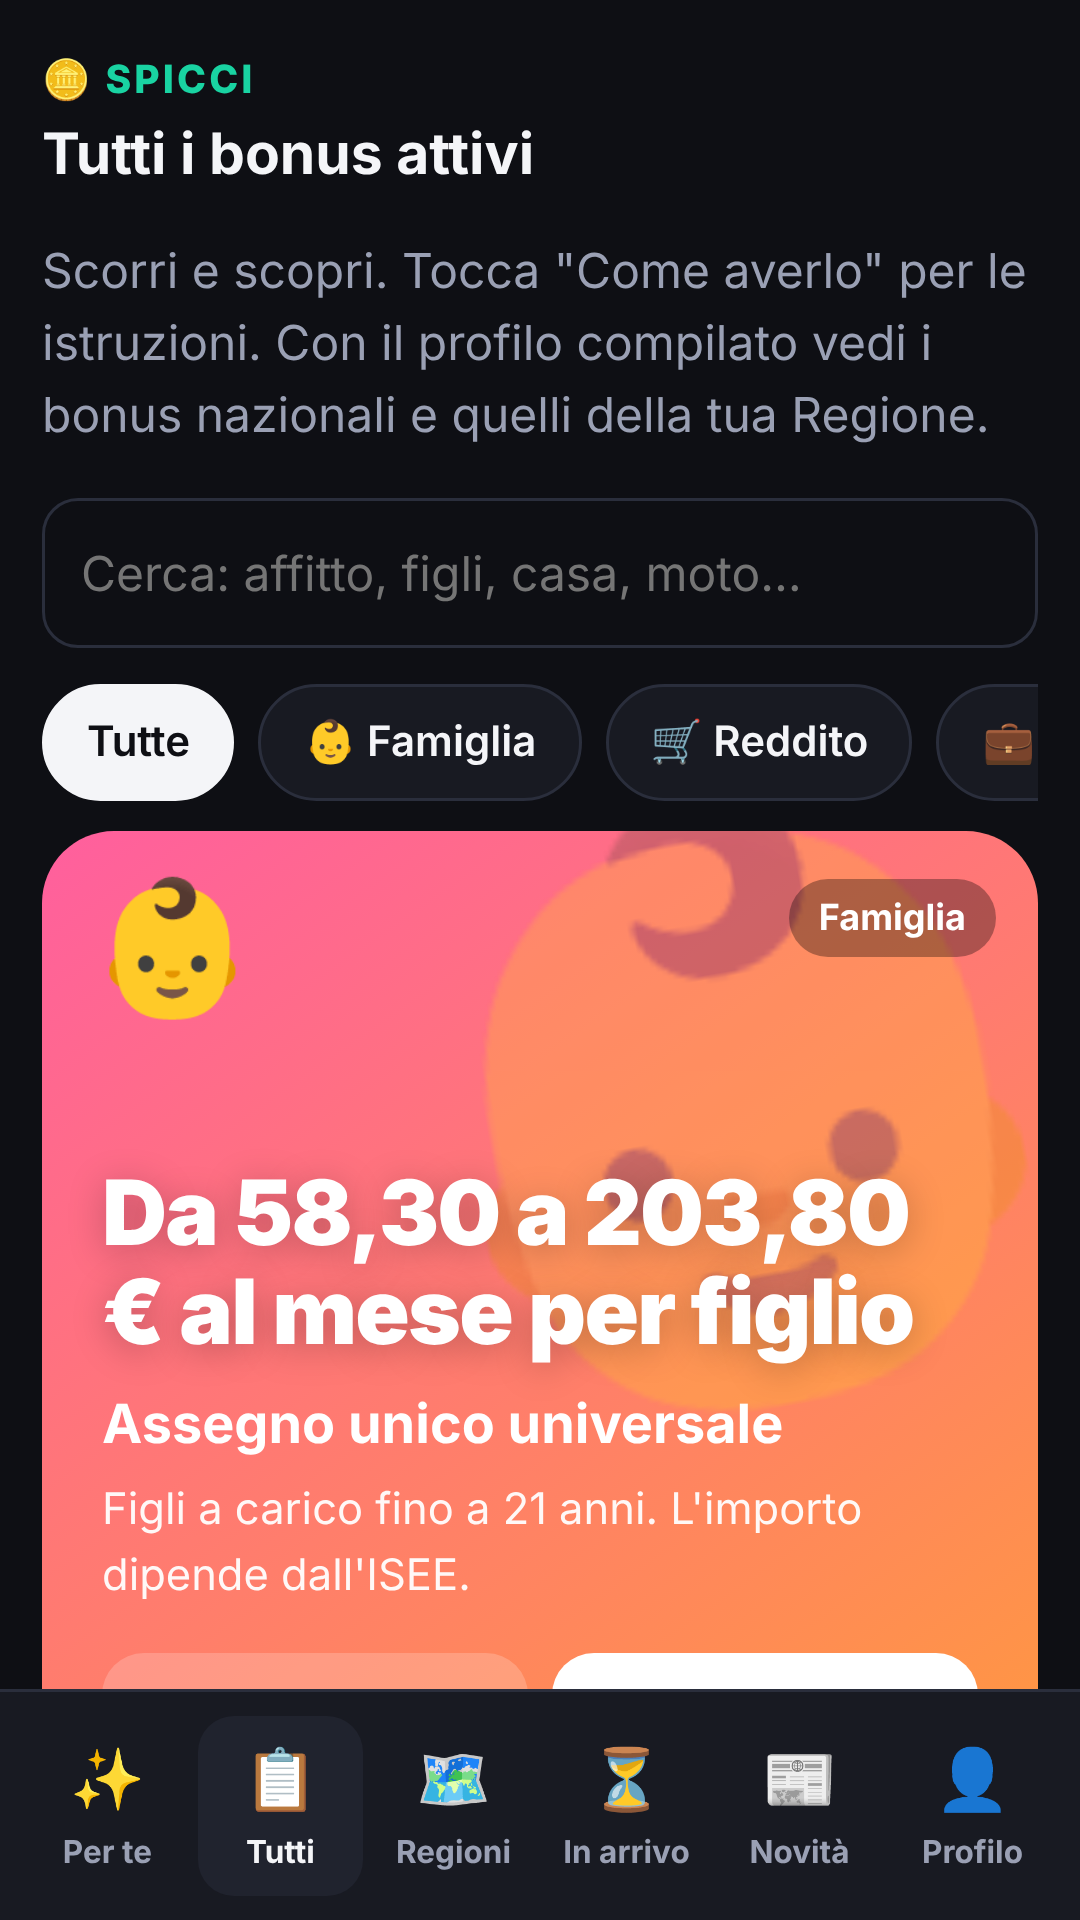
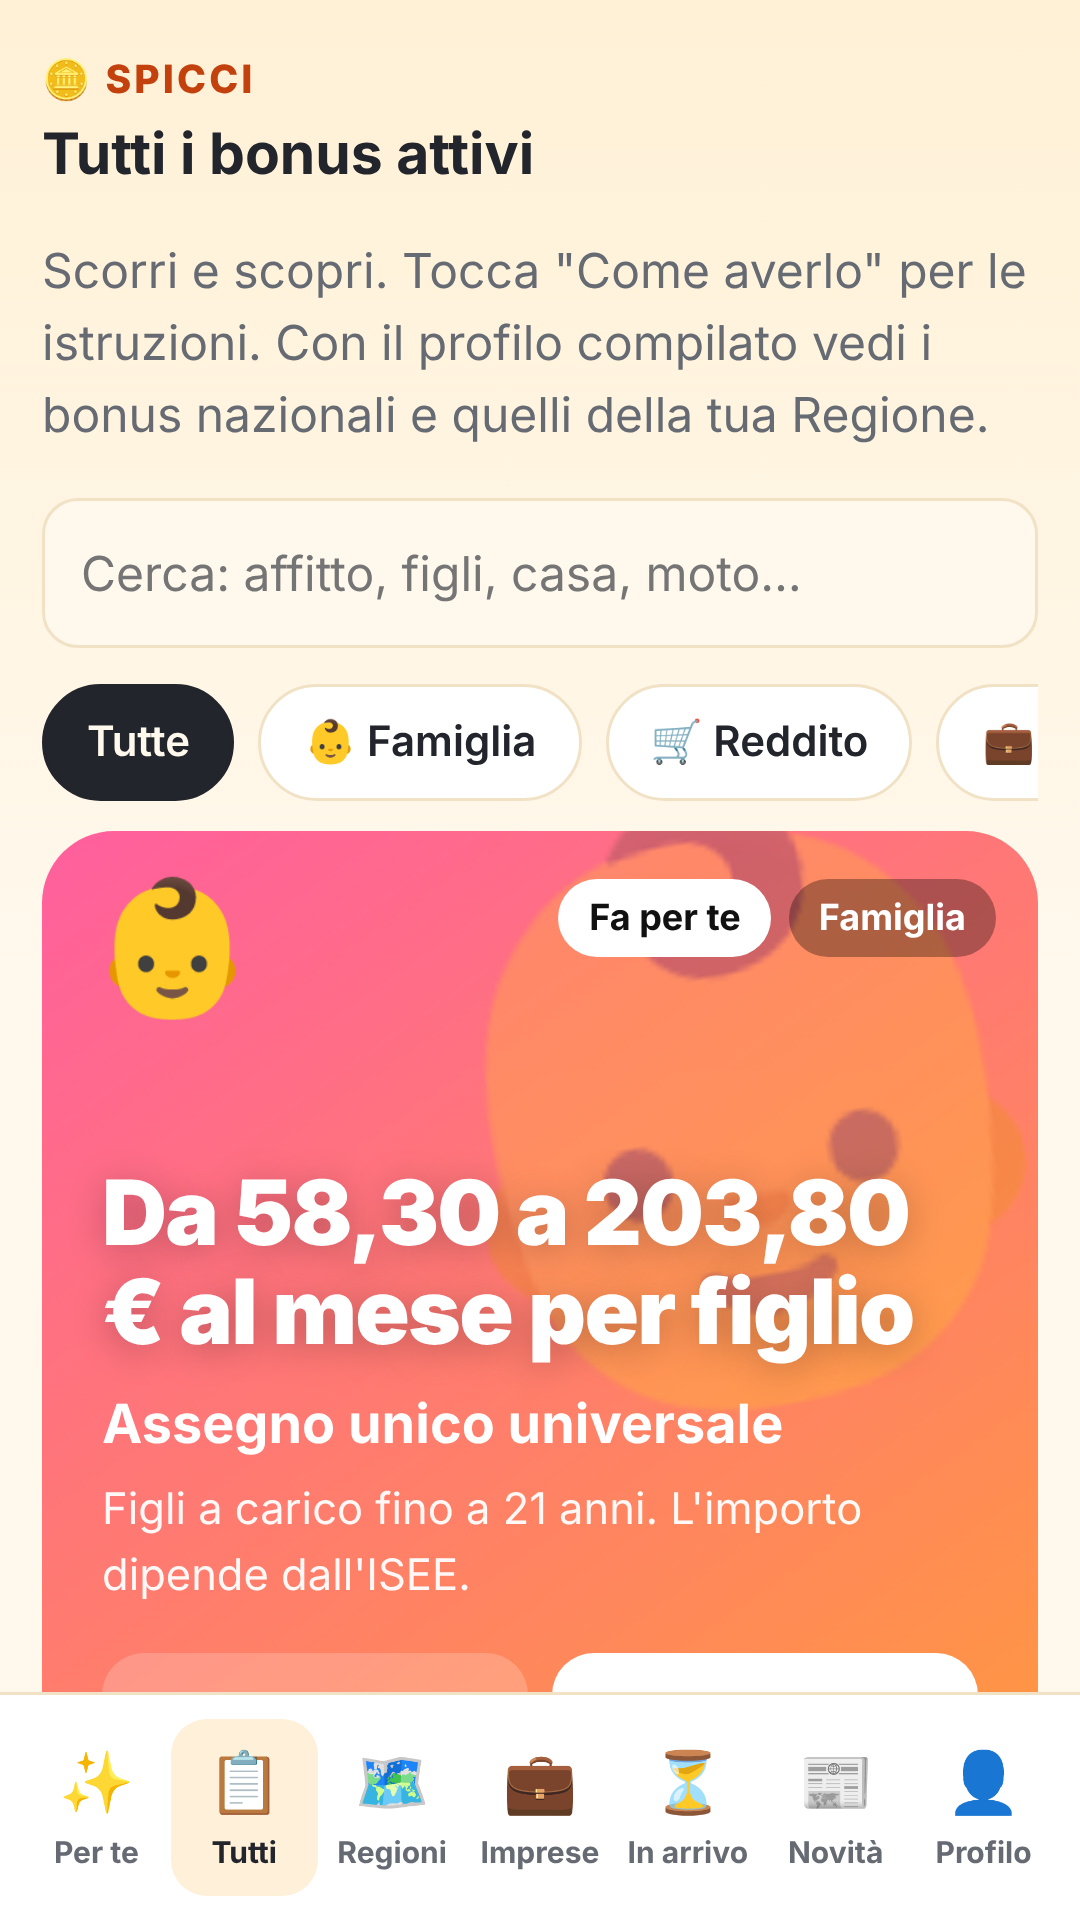
Materiale per gli store con la nuova grafica: screenshot, icona e grafica di presentazione
Claude-Session: https://claude.ai/code/session_01Vs3Ta1rwocmd4kWTLWmKt9

diff --git a/sw.js b/sw.js
@@ -1,4 +1,4 @@
-const V='spicci-2026-11-18k';
+const V='spicci-2026-11-18l';
 const PRE=["./", "index.html", "privacy.html", "termini.html", "fonti.html", "aiuto.html", "pro.html", "manifest.webmanifest", "favicon.ico", "icons/icon-192.png", "icons/icon-512.png", "icons/maskable-192.png", "icons/maskable-512.png", "icons/apple-touch-icon.png", "icons/favicon-32.png"];
 self.addEventListener('install',e=>{e.waitUntil(caches.open(V).then(c=>c.addAll(PRE)).then(()=>self.skipWaiting()));});
 self.addEventListener('activate',e=>{e.waitUntil(caches.keys().then(ks=>Promise.all(ks.filter(k=>k!==V).map(k=>caches.delete(k)))).then(()=>self.clients.claim()));});

diff --git a/strumenti/registro.md b/strumenti/registro.md
@@ -2,6 +2,7 @@
 
 Le righe più recenti in alto. Formato: data — modifica — fonte ufficiale.
 
+- 2026-11-18 — Materiale per gli store rifatto con la nuova grafica: 5 screenshot Android 1080×1920 (profilo, per te, tutti, regioni, imprese), icona 512, grafica 1024×500, icona 1024 e logo 300 in `negozio/`; aggiornati anche i 3 screenshot del manifest. Da caricare a mano nella scheda di Google Play. Il pacchetto Android 1.0.0 ha ancora i colori viola nella barra di sistema: serve una nuova versione del pacchetto per cambiarli.
 - 2026-11-18 — Nuova casella nel profilo (richiesta del titolare): "Non lavoro: mi occupo della casa e della famiglia". Nuove misure collegate: Assicurazione casalinghe INAIL (24 € l'anno, gratis con reddito basso) — https://www.inail.it/portale/assicurazione/it/Assicurazioni-Speciali/lavoro-domestico-casalinghe-i/lassicurazione-in-ambito-domestico.html ; Fondo pensione casalinghe INPS (da 25,82 € al mese) — https://www.inps.it/it/it/dettaglio-scheda.it.schede-servizio-strumento.schede-servizi.50171.iscrizione-fondo-casalinghe-e-casalinghi.html ; contributi figurativi per la maternità fuori dal lavoro — https://www.inps.it/it/it/dettaglio-scheda.it.schede-servizio-strumento.schede-servizi.50011.accredito-dei-contributi-figurativi-per-maternit--al-di-fuori-di-un-rapporto-di-lavoro.html . Non inserita la detrazione per coniuge a carico: pagine dell'Agenzia delle Entrate non leggibili.
 - 2026-11-18 (notte) — Priorità del titolare: il pulsante "Vai al bonus" porta sempre alla pagina ufficiale precisa. Tutte le 155 misure attive hanno ora il link `u` (67 aggiunti in questo giro, cercati sui siti ufficiali); la verifica blocca la pubblicazione se una misura attiva non ha il link o se il link è la home di un ente. Tolto il ripiego sul sito generico dell'ente.
 - 2026-11-18 — Spostate in "In arrivo" 22 misure perché la pagina ufficiale le dà chiuse o perché non esiste una pagina precisa verificabile: Dote Famiglia, Assegno di cura Campania, Contributo ristrutturazione casa FVG (bando scaduto il 6/10/2025), Start Up Molise (domande sospese dal 7/5/2026), scegliMI Milano (domande esaurite), BimboBò Bologna, Bando sicurezza casa Trieste, Buono Sport Firenze (chiuso il 19/10), Bonus fitti Bari, Viaggi d'istruzione Campobasso, Riduzione TARI Rimini (chiusa il 30/10), Fondo sfratti Livorno, Contributo accompagnamento Pescara, Voucher nido Giugliano, Rimborso trasporto Sassari, Bando ERP Rubicone (chiuso il 14/10), Rinnova Veicoli Lombardia (linea 2027 dal 2 marzo), Sconto 50% abbonamenti Puglia (chiuso il 25/10), Bonus nuovi nati Abruzzo, Nidi Gratis Liguria (chiuso il 22/6), Contributo famiglie numerose Umbria, Voucher conciliazione Valle d'Aosta (chiuso il 30/10). Tolte 3 voci senza fonte precisa: Bonus animali domestici over 65, Sconto TARI famiglie Bologna, voce generica "Contributi affitto di Regioni e Comuni". Soglie di verifica non cambiate.
